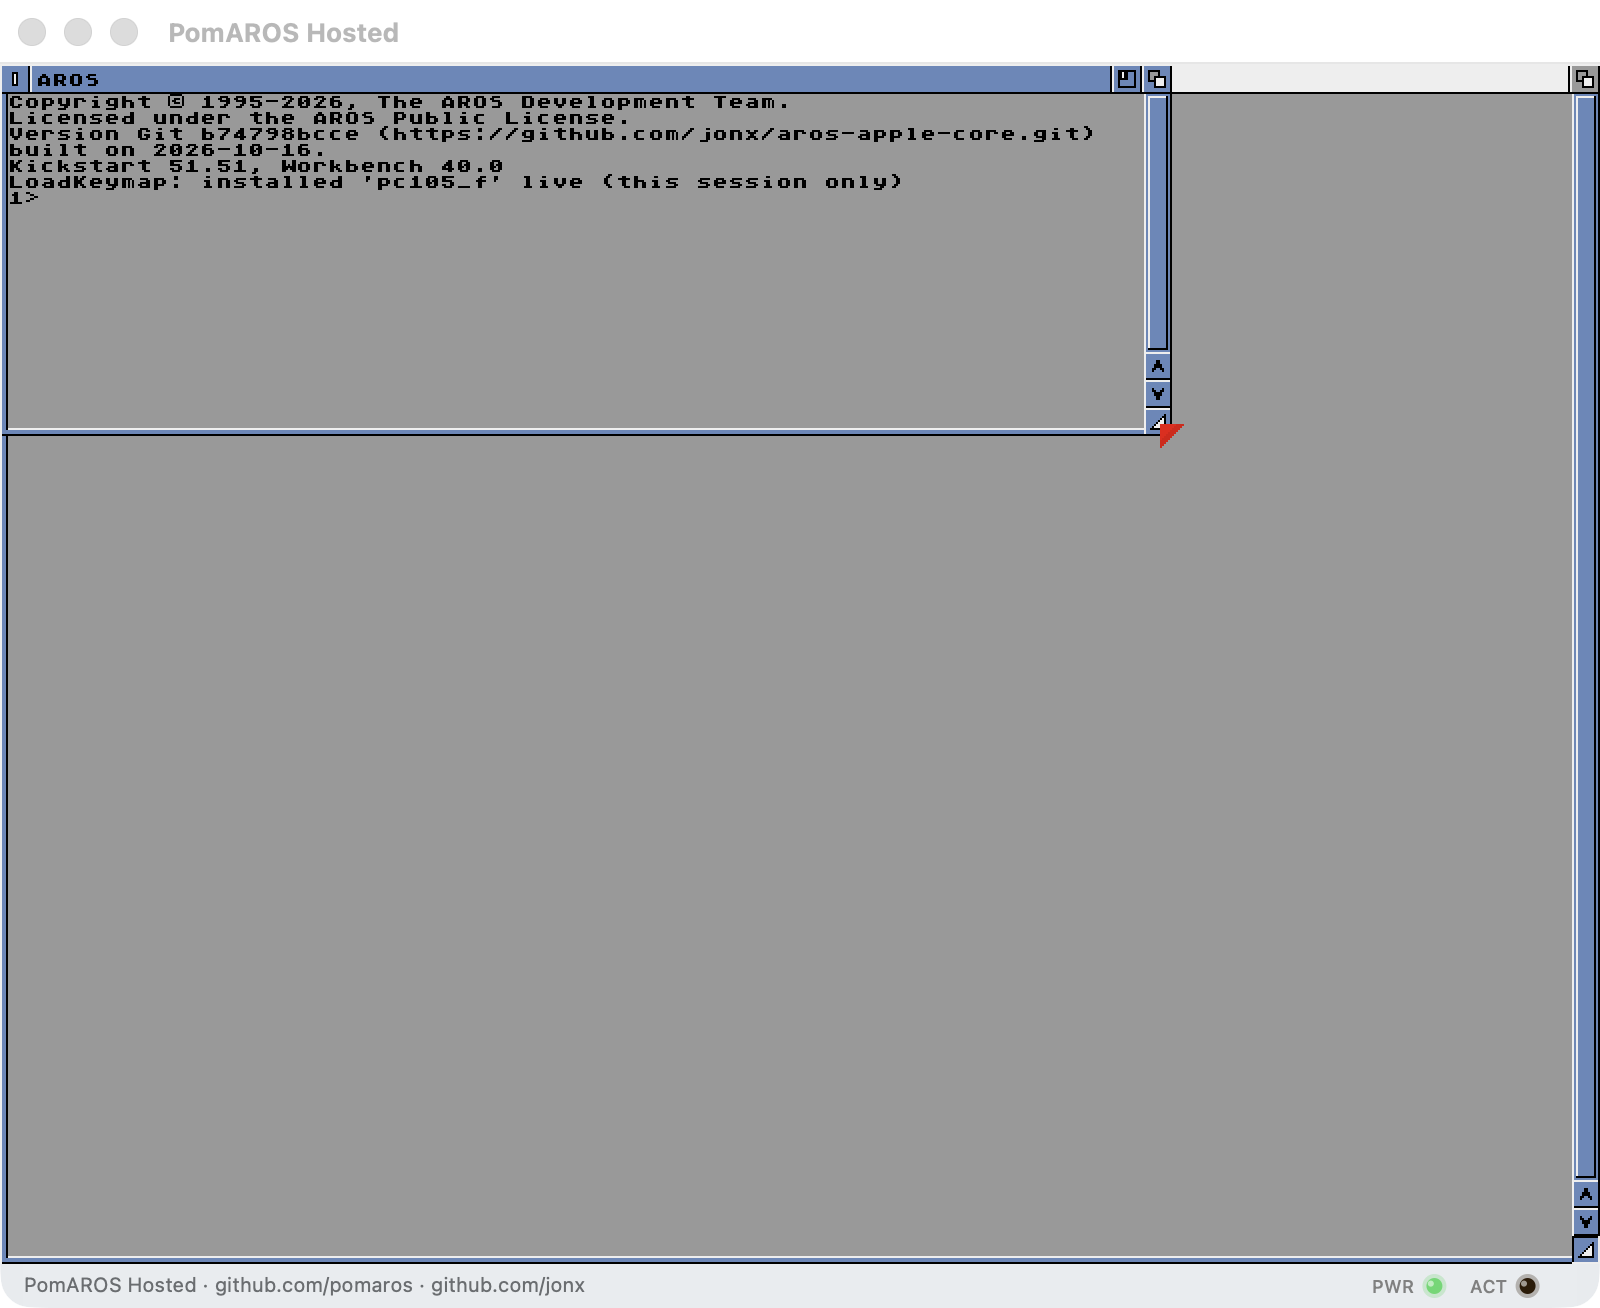
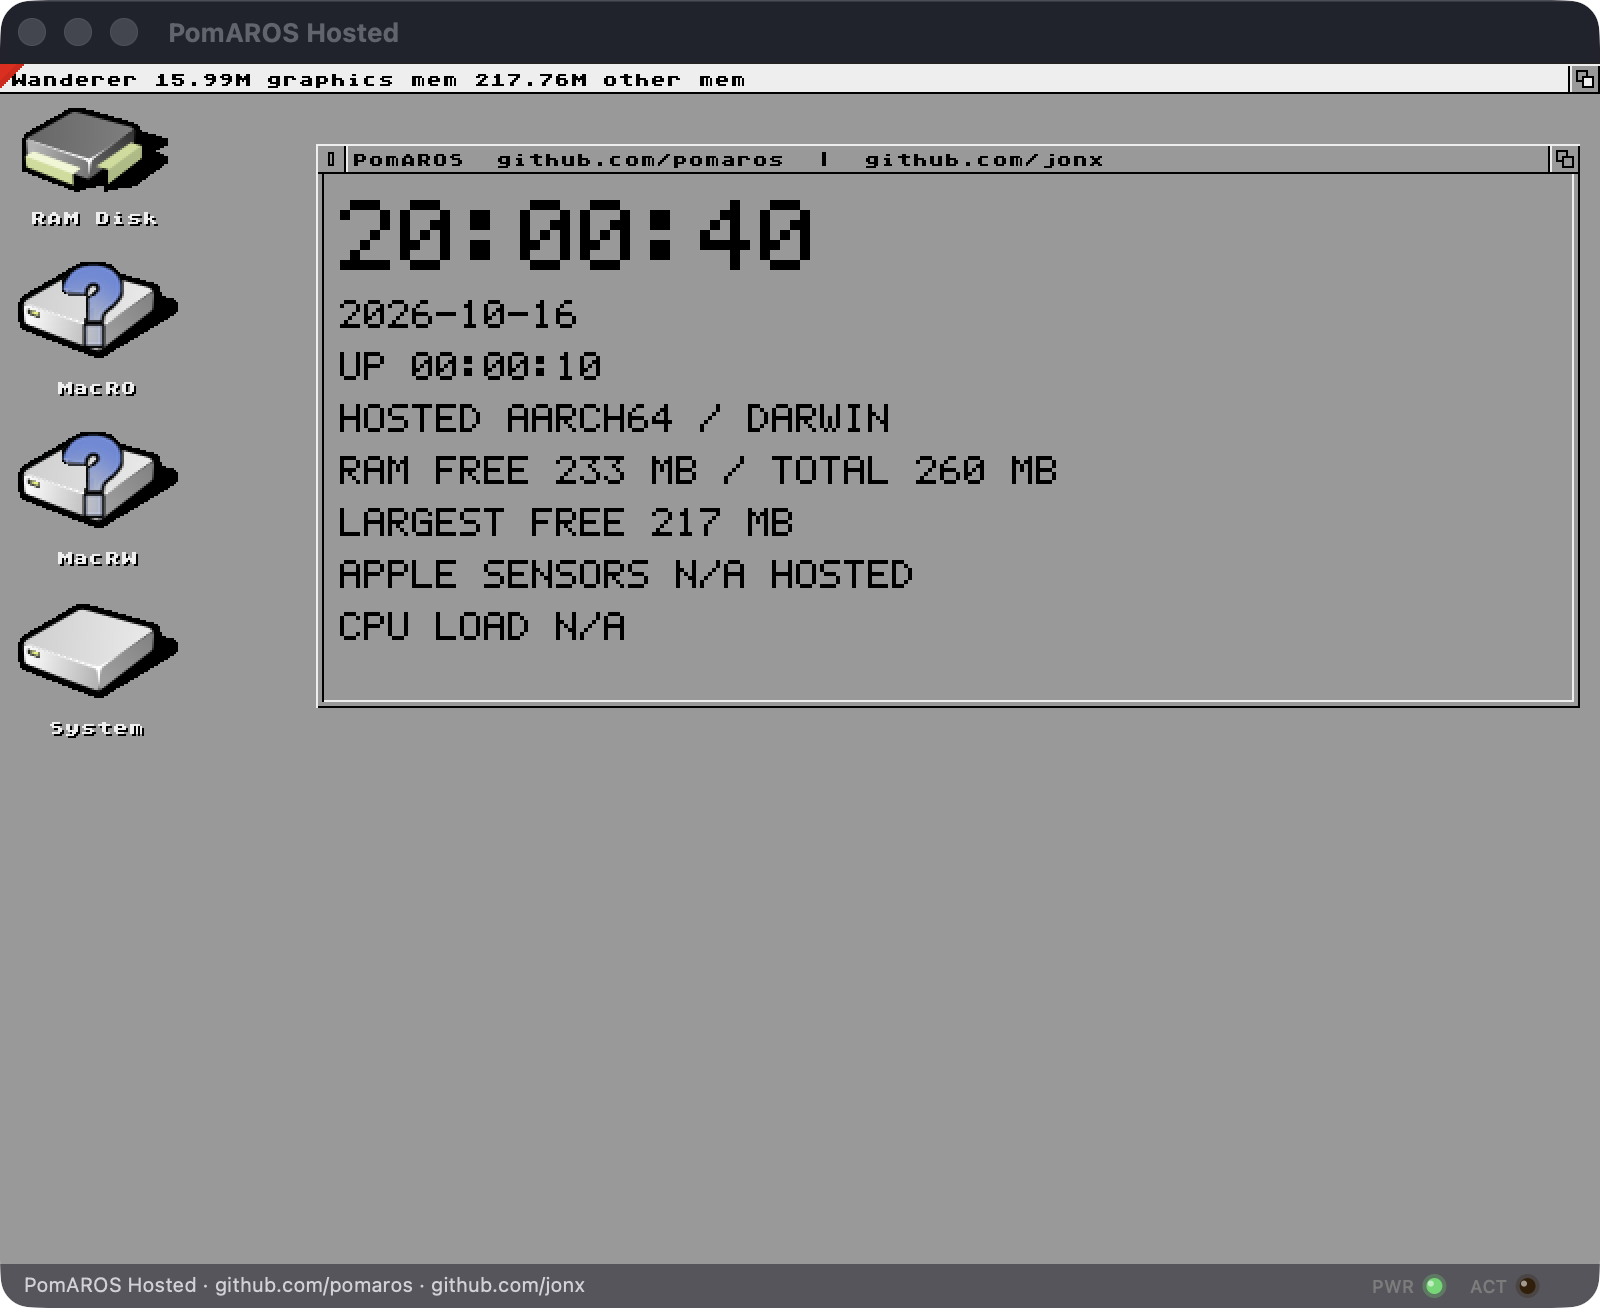
Show hosted desktop and shared live system monitor

Changed region(s): [[0.0, 0.0, 1.0, 1.0], [0.1875, 0.5199, 0.2188, 0.5505]]

diff --git a/README.md b/README.md
@@ -14,7 +14,7 @@ Apple Virtualization.framework, Apple Silicon native, and Raspberry Pi targets
 share the AROS source architecture; hosted keeps its Darwin adaptation and
 reserves Apple's `x18` register. Their platform binaries are distinct.
 
-![PomAROS Hosted running in a native Mac window, with its AROS console and host status bar.](docs/images/pomaros-hosted.png)
+![PomAROS Hosted running in a native Mac window, with its Wanderer desktop and live system monitor.](docs/images/pomaros-hosted.png)
 
 ## Migration status
 
@@ -22,8 +22,10 @@ This repository has been renamed to PomAROS Hosted. No PomAROS release has been
 published yet; earlier version and signing notes describe the inherited product.
 The rebuilt development app has passed windowed startup, host file exchange,
 CoreAudio playback, network and 68k library initialization, and clean shutdown.
-The screenshot shows its console view. Full desktop interaction and the bundled
-third-party applications still need separate release qualification.
+The screenshot shows the real Wanderer desktop and the shared monitor renderer,
+with live AROS clock, uptime, and memory measurements. Apple hardware sensors
+are explicitly unavailable in hosted mode. Broader desktop interaction and the
+bundled third-party applications still need separate release qualification.
 Build from source with [GETTING-STARTED.md](GETTING-STARTED.md). The product
 repository is [pomaros/pomaros-hosted](https://github.com/pomaros/pomaros-hosted).
 

diff --git a/docs/features/deployment/README.md b/docs/features/deployment/README.md
@@ -77,7 +77,11 @@ If no config or hostvolume key is present, launchers default to
 
 PomAROS host/guest exchanges use `.pomaros-media`, `.pomaros-volumes`, and
 `.pomaros-keymap`. New GUI preference profiles start windowed. Desktop startup restores
-`ENVARC:` into the fresh `ENV:` RAM directory before IPrefs and Wanderer.
+`ENVARC:` into the fresh `ENV:` RAM directory before IPrefs and Wanderer, then
+closes the startup console to expose the desktop. `Tools/SystemMonitor` opens
+the shared clock renderer with real AROS time, uptime, and memory values;
+physical Apple sensors are marked unavailable in hosted mode. Its optional
+`--diagnostic` argument writes one measurement sample per second to stdout.
 For bounded qualification, `POMAROS_FORCE_WINDOWED=1` also rejects fullscreen
 requests while preserving the normal user-controlled fullscreen option.
 

diff --git a/CHANGELOG.md b/CHANGELOG.md
@@ -17,7 +17,9 @@ CoreAudio driver selection survives AHI’s final configuration pass. Hosted
 builds now compile a separate x18-reserving compiler runtime, include the POSIX
 library and keyboard maps, and can capture their own native window for diagnostics
 on macOS 14.4 or newer. Desktop startup restores saved AROS preferences from
-ENVARC into ENV before launching preferences and Wanderer.
+ENVARC into ENV before launching preferences and Wanderer. The desktop now
+closes its startup console and opens a live system monitor using the shared
+clock renderer, actual AROS uptime and memory, and explicit hosted sensor limits.
 
 
 ## 2026-09-18 - One metadata file per folder, shared with other tools
